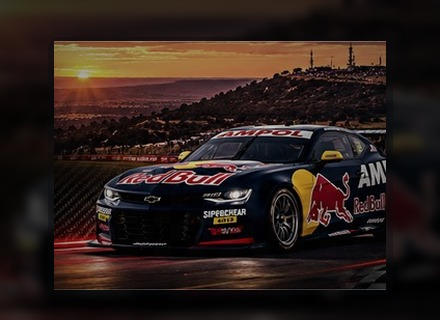
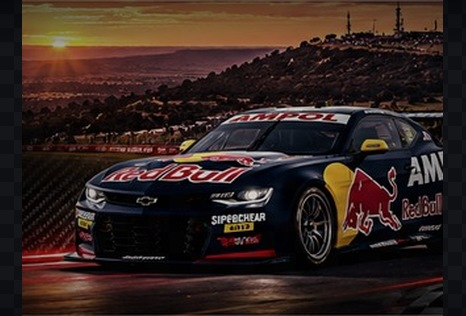
Fix clipped BATHURST T and unstretched tab card cars.
Remove negative character spacing and add italic overhang padding so the final T is fully visible. Rebuild card backgrounds at cell aspect with Uniform-contain cars (no non-uniform scale) and bump to 1.0.7.35.

diff --git a/NickeltownPOSV4/Controls/BathurstTabsHeader.xaml b/NickeltownPOSV4/Controls/BathurstTabsHeader.xaml
@@ -30,19 +30,20 @@
         </Image>
 
         <Image
-            Width="56"
+            Width="48"
             Height="112"
             HorizontalAlignment="Left"
             IsHitTestVisible="False"
-            Opacity="0.38"
+            Opacity="0.35"
             Stretch="Fill">
             <Image.Source>
                 <BitmapImage UriSource="ms-appx:///Assets/Bathurst/chequered-edge.png" />
             </Image.Source>
         </Image>
 
+        <!-- Left title block: room for italic overhang so the final T is not clipped -->
         <Grid
-            Margin="12,6,0,8"
+            Margin="10,4,0,6"
             HorizontalAlignment="Left"
             VerticalAlignment="Center">
             <Grid.ColumnDefinitions>
@@ -52,23 +53,24 @@
 
             <Image
                 Grid.Column="0"
-                Width="110"
-                Height="78"
-                Margin="0,2,10,0"
+                Width="92"
+                Height="70"
+                Margin="0,4,8,0"
                 VerticalAlignment="Center"
                 IsHitTestVisible="False"
                 Stretch="Uniform">
                 <Image.Source>
                     <BitmapImage
-                        DecodePixelWidth="220"
+                        DecodePixelWidth="184"
                         UriSource="ms-appx:///Assets/Bathurst/mount-panorama-outline.png" />
                 </Image.Source>
             </Image>
 
             <StackPanel
                 Grid.Column="1"
+                Margin="0,0,20,0"
                 VerticalAlignment="Center"
-                Spacing="-2">
+                Spacing="0">
                 <TextBlock
                     FontSize="10"
                     FontWeight="SemiBold"
@@ -76,45 +78,51 @@
                     Opacity="0.92"
                     CharacterSpacing="40"
                     Text="NICKELTOWN POS" />
+                <!-- No negative CharacterSpacing: italic glyphs overhang and get clipped. -->
                 <TextBlock
-                    Margin="0,-1,0,0"
-                    FontSize="30"
+                    Margin="0,0,0,0"
+                    Padding="0,0,14,0"
+                    FontSize="28"
                     FontStyle="Italic"
                     FontWeight="Bold"
                     Foreground="#FFFFFFFF"
-                    CharacterSpacing="-20"
-                    Text="BATHURST" />
+                    Text="BATHURST"
+                    TextTrimming="None"
+                    TextWrapping="NoWrap" />
                 <TextBlock
-                    Margin="2,-6,0,0"
-                    FontSize="42"
+                    Margin="2,-4,0,0"
+                    Padding="0,0,14,0"
+                    FontSize="38"
                     FontStyle="Italic"
                     FontWeight="Bold"
                     Foreground="#FFE32636"
-                    CharacterSpacing="-40"
-                    Text="1000" />
+                    Text="1000"
+                    TextTrimming="None"
+                    TextWrapping="NoWrap" />
             </StackPanel>
         </Grid>
 
         <StackPanel
-            Margin="0,0,18,0"
+            Margin="0,0,16,0"
             HorizontalAlignment="Right"
             VerticalAlignment="Center"
-            Spacing="-2">
+            Spacing="0">
             <TextBlock
                 HorizontalAlignment="Right"
                 FontSize="13"
                 FontStyle="Italic"
                 FontWeight="Bold"
                 Foreground="#FFFFFFFF"
-                CharacterSpacing="40"
+                CharacterSpacing="30"
                 Text="GREATEST RACE" />
             <TextBlock
+                Margin="0,2,0,0"
                 HorizontalAlignment="Right"
-                FontSize="19"
+                FontSize="18"
                 FontStyle="Italic"
                 FontWeight="Bold"
                 Foreground="#FFE32636"
-                CharacterSpacing="60"
+                CharacterSpacing="40"
                 Text="ON EARTH" />
         </StackPanel>
 

diff --git a/NickeltownPOSV4/Views/TabsWorkspaceView.xaml b/NickeltownPOSV4/Views/TabsWorkspaceView.xaml
@@ -274,12 +274,12 @@
                                         StrokeDashArray="6,4"
                                         StrokeThickness="2" />
                                     <Image
-                                        Opacity="0.36"
+                                        Opacity="0.40"
                                         Stretch="Uniform"
-                                        HorizontalAlignment="Center"
-                                        VerticalAlignment="Center"
+                                        HorizontalAlignment="Stretch"
+                                        VerticalAlignment="Stretch"
                                         IsHitTestVisible="False"
-                                        Source="{Binding CardBackgroundUri, Converter={StaticResource PathToImage}, ConverterParameter=360, Mode=OneWay}"
+                                        Source="{Binding CardBackgroundUri, Converter={StaticResource PathToImage}, ConverterParameter=466, Mode=OneWay}"
                                         Visibility="{Binding HasCardBackground, Converter={StaticResource BoolToVis}, Mode=OneWay}" />
                                     <Border Padding="10" VerticalAlignment="Center" HorizontalAlignment="Center">
                                         <StackPanel VerticalAlignment="Center" HorizontalAlignment="Center">
@@ -364,15 +364,21 @@
                                             <RowDefinition Height="4" />
                                             <RowDefinition Height="*" />
                                         </Grid.RowDefinitions>
-                                        <!-- Assets match card aspect with full car + blurred edge fill; Uniform paints edge-to-edge. -->
+                                        <!-- Card assets are pre-composed at cell aspect with Uniform-contain cars (no stretch). -->
+                                        <Rectangle
+                                            Grid.RowSpan="2"
+                                            Fill="#FF12151A"
+                                            RadiusX="12"
+                                            RadiusY="12"
+                                            IsHitTestVisible="False" />
                                         <Image
                                             Grid.RowSpan="2"
-                                            Opacity="0.38"
+                                            Opacity="0.42"
                                             Stretch="Uniform"
-                                            HorizontalAlignment="Center"
-                                            VerticalAlignment="Center"
+                                            HorizontalAlignment="Stretch"
+                                            VerticalAlignment="Stretch"
                                             IsHitTestVisible="False"
-                                            Source="{Binding CardBackgroundUri, Converter={StaticResource PathToImage}, ConverterParameter=360, Mode=OneWay}"
+                                            Source="{Binding CardBackgroundUri, Converter={StaticResource PathToImage}, ConverterParameter=466, Mode=OneWay}"
                                             Visibility="{Binding HasCardBackground, Converter={StaticResource BoolToVis}, Mode=OneWay}" />
                                         <Border
                                             Grid.Row="0"
